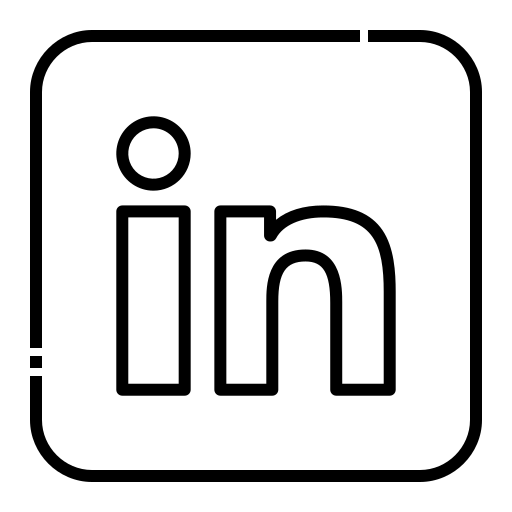
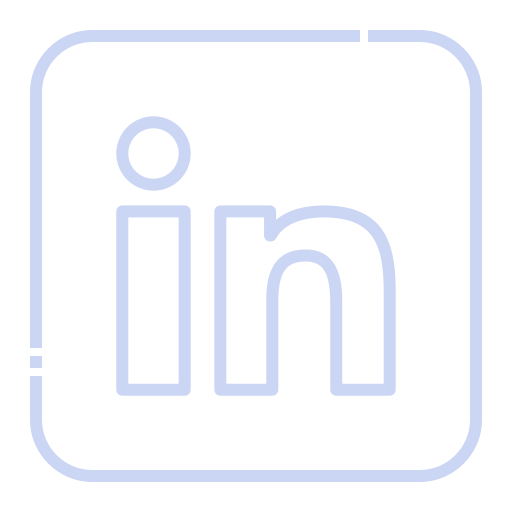
improvement section header

Changed region(s): [[0.0312, 0.0312, 0.9688, 0.9688], [0.4062, 0.375, 0.7812, 0.7812], [0.2188, 0.2188, 0.375, 0.7812]]

diff --git a/index.html b/index.html
@@ -19,20 +19,21 @@
             <li><button class="btn_resume"><a href="download/resume.pdf">Resume</a></button></li>
         </ul>
     </header>
-    <social_media>
+    <section class="social_media">
         <ul>
             <li><a href="https://github.com/TheLukCraft" target="_blank"><img src="images/github.png" alt="TheLukCraft - GitHub" /></a></li>
             <li><a href="https://www.linkedin.com/in/lukaszcapala/" target="_blank"><img src="images/linkedin.png" alt="Łukasz Capała - LinkedIn" /></a></li>
+            <li><div class="line"></div></li>
         </ul>
-    </social_media>
+    </section>
     <div class="introduction container">
         <p class="welcome">Cześć wszystkim! Nazywam się</p>
-        <h2 class="first_last_name">Łukasz Capała</h1>
+        <h2 class="first_last_name">Łukasz Capała</h2>
         <h2 class="short_text">.NET Developer z pasją</h2>
         <p class="long_text">Lorem Ipsum is simply dummy text of the printing and typesetting industry. Lorem Ipsum has been the industry's standard dummy text ever since the 1500s, when an unknown printer took a galley of type and scrambled it to make a type specimen book. It has survived not only five centuries, but also the leap into electronic typesetting, remaining essentially unchanged. It was popularised in the 1960s with the release of Letraset sheets containing Lorem Ipsum passages, and more recently with desktop publishing software like Aldus PageMaker including versions of Lorem Ipsum.</p>
         <button class="btn_send_email">Napisz do mnie</button>
     </div>
-    <div class="about">
+    <section class="about">
         <div class="column1">
             <div class="row1">
                 <h2><span>02.</span> O mnie</h2>
@@ -46,6 +47,6 @@
         <div class="column2">
             <img src="images/me.png" alt="Łukasz Capała .NET Developer photo" class="photo">
         </div>
-    </div>
+    </section>
 </body>
 </html>

diff --git a/css/style.css b/css/style.css
@@ -23,7 +23,7 @@
 
 :root {
     --background-color: #0a1930;
-    --primary-color: #39455F; 
+    --primary-color:  #8893b0 ; 
     --secondary-color: #929eb8;
     --interjections-color: #6cbab9;
     --lighter-interjections-color: #6FC9C0;
@@ -140,29 +140,39 @@ header.sticky ul li a {
 
 /* social media */
 
-social_media {
+.social_media {
     display: flex;
-    height: 90vh;
-    margin-left: 5vw;
+    height: 100vh;
+    margin-left: 3vw;
     position:fixed;
     transition: 0.6s;
     z-index: 1000;
 }
 
-social_media ul {
+.social_media ul {
     position: relative;
     color: var(--secondary-color);
     display: flex;
     flex-direction: column;
     justify-content: flex-end;
 }
-social_media ul li {
+.social_media ul li {
     position: relative;
     list-style: none;
+    margin-bottom: 1rem;
 }
-social_media ul li img {
+.social_media ul li:last-child {
+    margin-bottom: 0rem;
+}
+.social_media ul li img {
     height: 64px;
     width: 64px;
+}
+.line {
+    width: 0.05rem;
+    height: 10vh;
+    background-color: var(--h2-color);
+    margin: 0 auto;
 }
 
 /* introduction */
